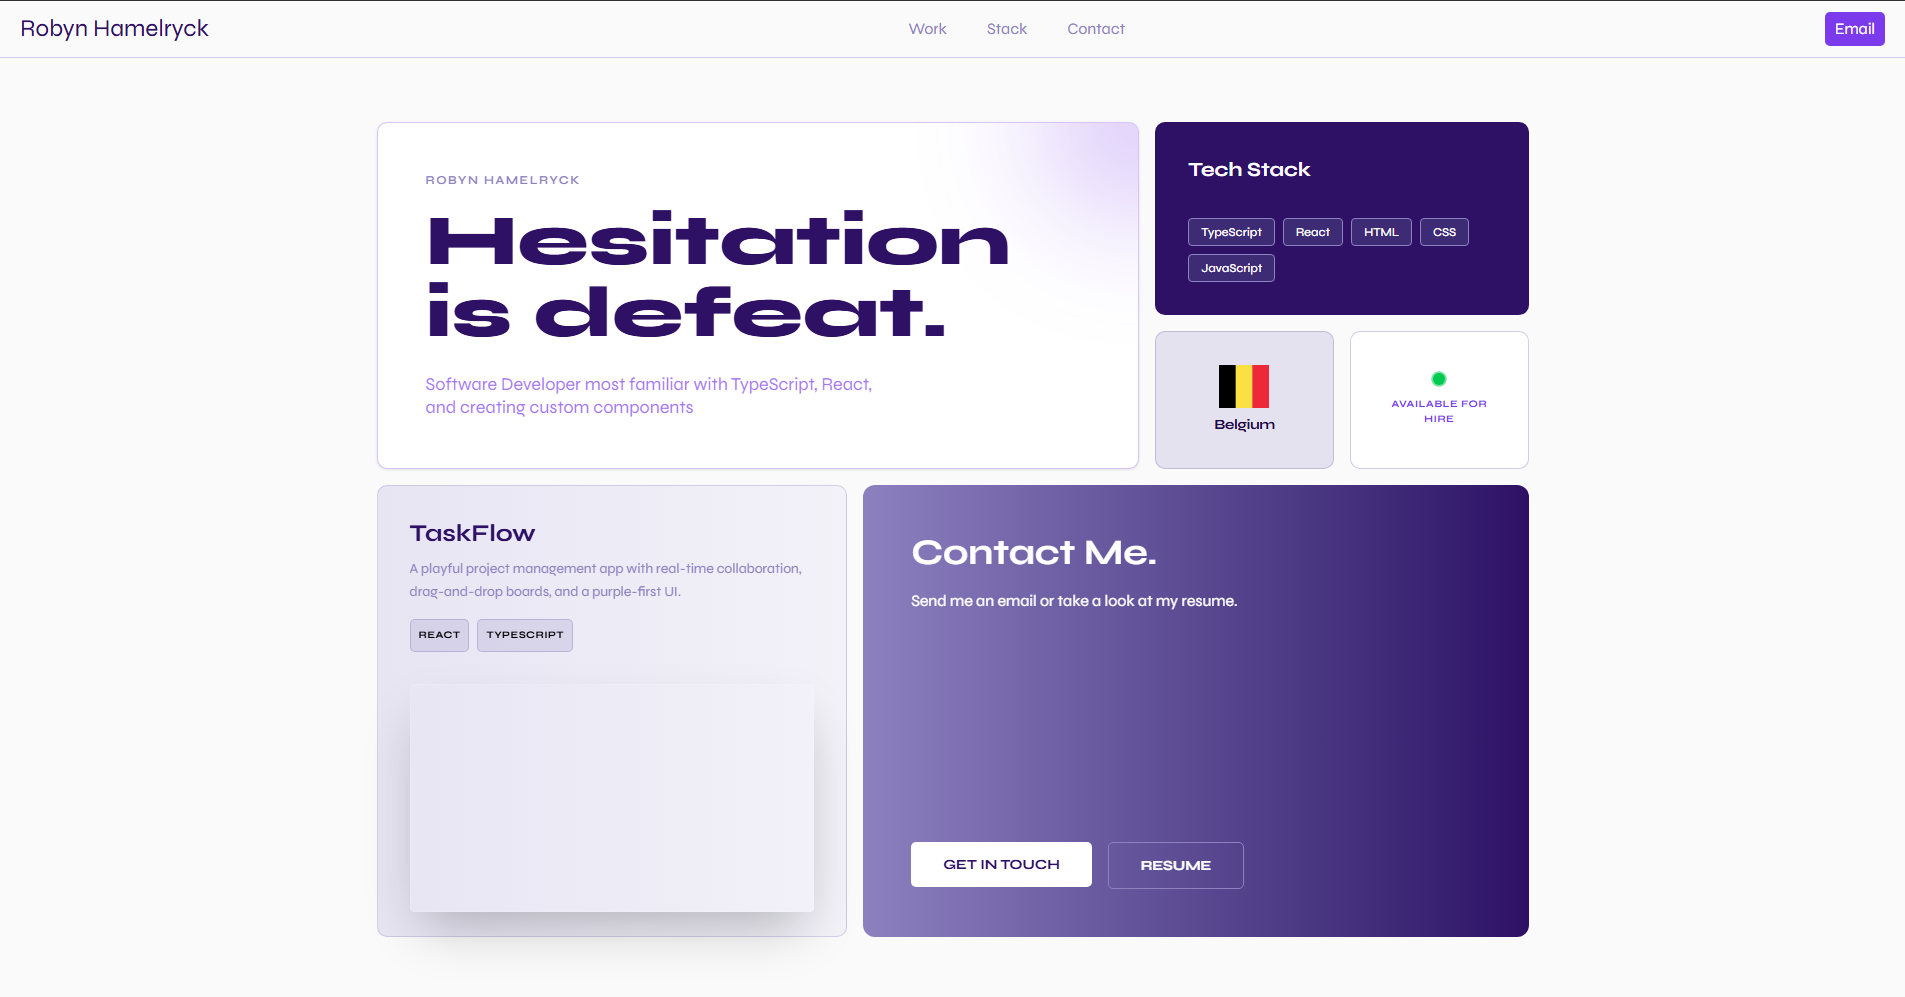
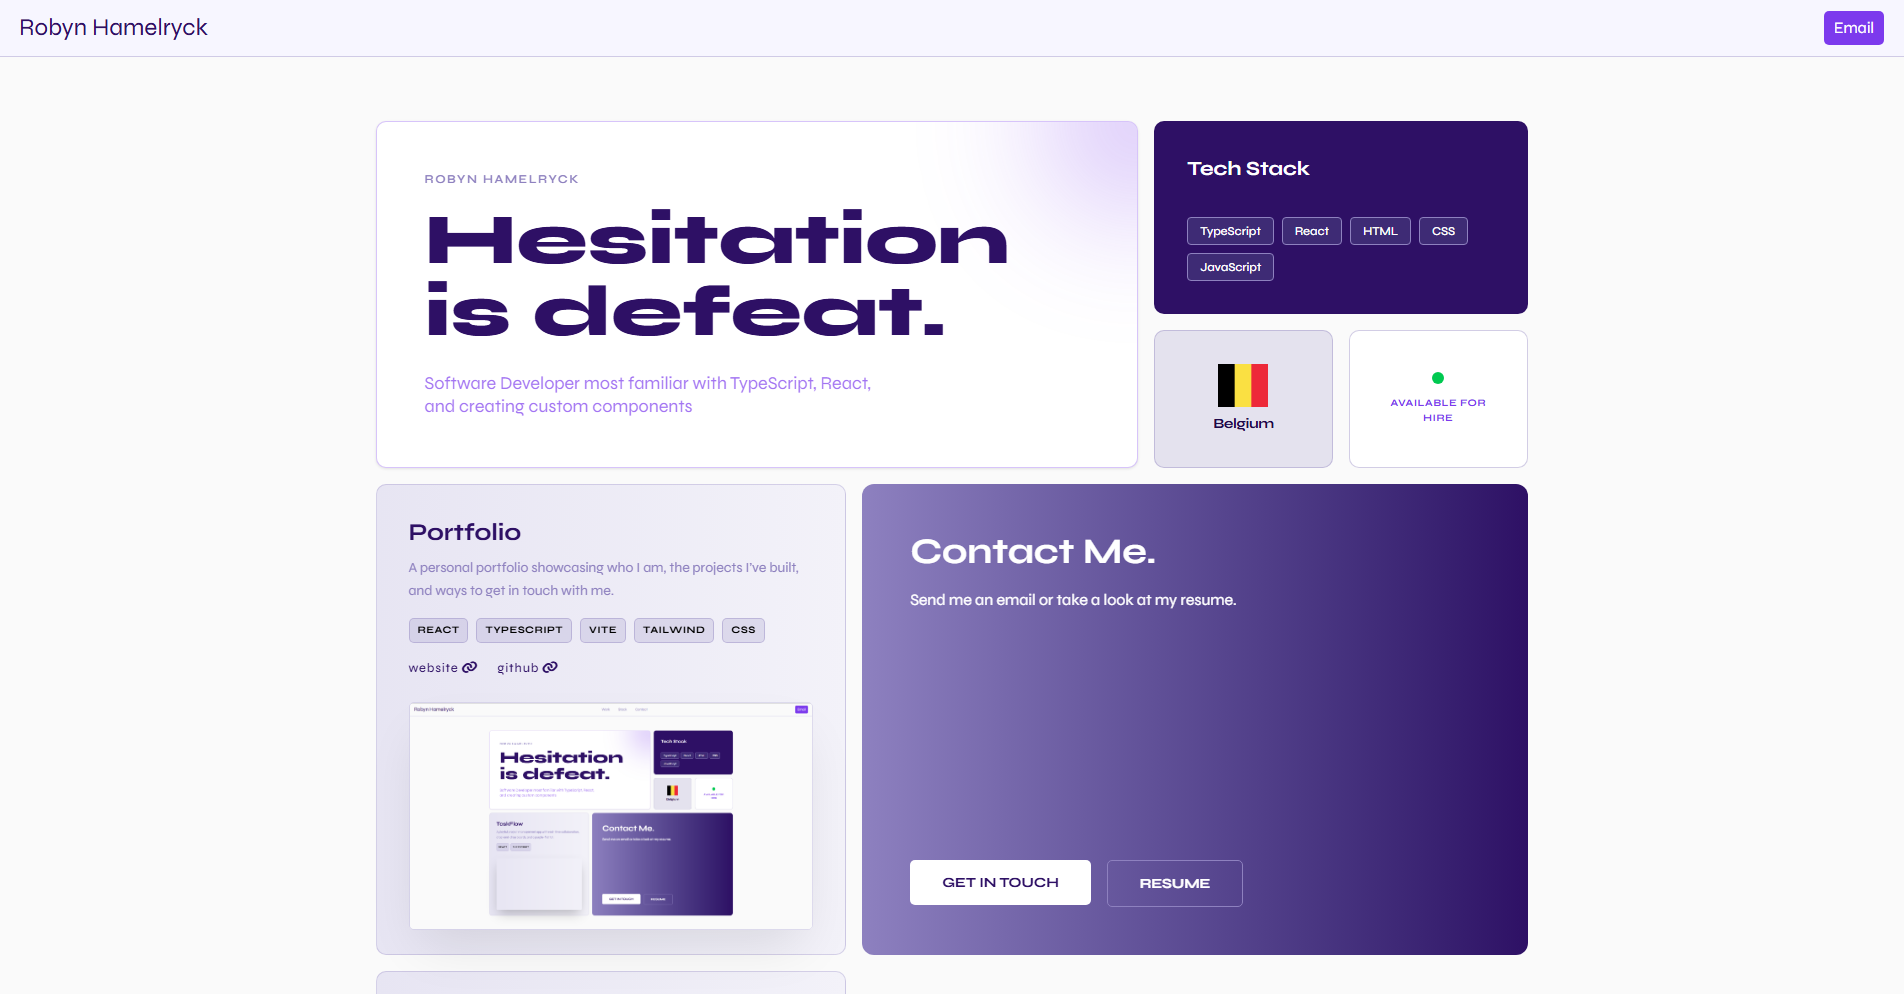
[PROJECT]  - improve preview image  - add releastiary project

diff --git a/src/components/Masonry/components/ProjectCard/index.tsx b/src/components/Masonry/components/ProjectCard/index.tsx
@@ -9,7 +9,30 @@ type ProjectCardProps = {
   image: string;
 }
 
+const PreviewImage = ({ websiteLink, image }: { websiteLink?: {title: string, link: string}, image: string }) => {
+  return (
+    websiteLink ? 
+      <a
+        href={websiteLink.link}
+        target="_blank"
+        rel="noopener noreferrer"
+      >
+        <img
+          className={classNames(
+            styles.Image,
+            "aspect-video translate-y-2 group-hover:translate-y-0"
+          )}
+          src={image}
+        />
+      </a>
+      : 
+      <img className={classNames(styles.Image, "aspect-video translate-y-2 group-hover:translate-y-0")} src={image} />
+  )
+}
+
 const ProjectCard = ({title, description, tags, links, image}: ProjectCardProps) => {
+  const websiteLink = links?.find(({ title }) => title.toLowerCase() === "website");
+
   return (
     <div
       id="work"
@@ -44,7 +67,7 @@ const ProjectCard = ({title, description, tags, links, image}: ProjectCardProps)
           ))}
         </div>}
       </div>
-      <img className={classNames(styles.Image, "aspect-video translate-y-2 group-hover:translate-y-0")} src={image} />
+      <PreviewImage websiteLink={websiteLink} image={image} />
     </div>
   )
 };

diff --git a/src/components/Masonry/index.tsx b/src/components/Masonry/index.tsx
@@ -6,6 +6,7 @@ import ProjectCard from "./components/ProjectCard";
 import TechStackCard from "./components/TechStackCard";
 
 import portfolio_image from "../../assets/project_portfolio.png";
+import releastiary_image from "../../assets/project_releastiary.png";
 
 const Masonry = () => {
   return (
@@ -29,6 +30,18 @@ const Masonry = () => {
         image={portfolio_image}
       />
       <ContactCard />
+      <ProjectCard 
+        title="Releastiary" 
+        description="A website on which you can see which video games are released on a given day." 
+        tags={["React", "TypeScript", "Vite", "Tailwind", "shadcn", "Express"]}
+        links={
+          [
+            {title: "website", link: "https://releastiary.onrender.com/"},
+            {title: "github", link: "https://github.com/FormOfShred/releastiary"}
+          ]
+        }
+        image={releastiary_image}
+      />
     </div>
   )
 }
